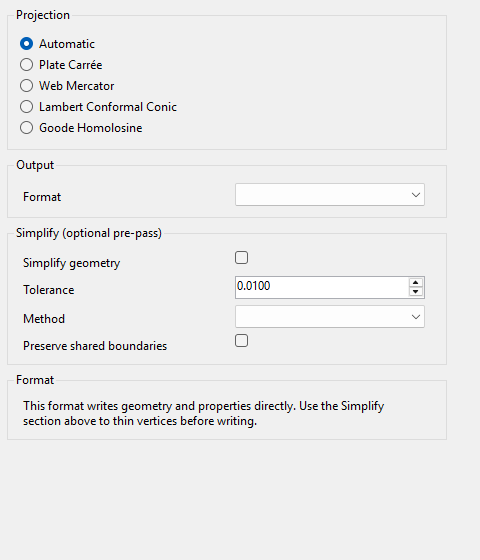
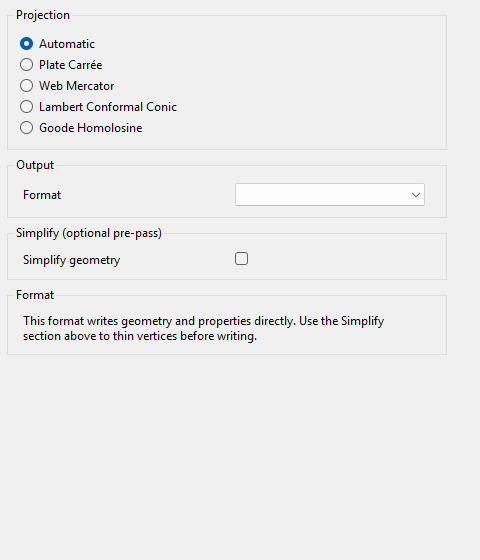
.

diff --git a/src/GeoConvert.App/Ui/OptionsPanel.cs b/src/GeoConvert.App/Ui/OptionsPanel.cs
@@ -141,7 +141,12 @@ sealed class OptionsPanel : FlowLayoutPanel
     void BuildSimplifySection()
     {
         BeginSection("Simplify (optional pre-pass)");
-        AddCheck("Simplify geometry", simplify.Enabled, _ => simplify.Enabled = _);
+        var enabled = AddCheck("Simplify geometry", simplify.Enabled, _ => simplify.Enabled = _);
+
+        // The tolerance / method / topology options only apply when simplification is on, so collapse
+        // them when "Simplify geometry" is unchecked. Capture the controls added below so the toggle can
+        // hide both the labels and the inputs (an AutoSize TableLayoutPanel row collapses when empty).
+        var dependentStart = currentTable.Controls.Count;
         AddDouble("Tolerance", 0, 1000, 4, simplify.Tolerance, _ => simplify.Tolerance = _);
         AddCombo(
             "Method",
@@ -149,6 +154,23 @@ sealed class OptionsPanel : FlowLayoutPanel
             simplify.Method,
             _ => simplify.Method = _);
         AddCheck("Preserve shared boundaries", simplify.Topology, _ => simplify.Topology = _);
+
+        var dependents = new List<Control>();
+        for (var index = dependentStart; index < currentTable.Controls.Count; index++)
+        {
+            dependents.Add(currentTable.Controls[index]);
+        }
+
+        void Sync()
+        {
+            foreach (var dependent in dependents)
+            {
+                dependent.Visible = enabled.Checked;
+            }
+        }
+
+        enabled.CheckedChanged += (_, _) => Sync();
+        Sync();
     }
 
     void BuildNoteSection()
@@ -212,15 +234,18 @@ sealed class OptionsPanel : FlowLayoutPanel
 
     void Row(string label, Control control)
     {
+        // Fill the label cell and centre its text vertically so it lines up with the input regardless of
+        // the input's height; centre the input in the row too (Anchor without Top/Bottom). The column is
+        // wide enough (215px) that no label wraps.
         var caption = new Label
         {
             Text = label,
-            AutoSize = true,
-            Anchor = AnchorStyles.Left,
-            Margin = new(3, 7, 3, 3),
-            MaximumSize = new(210, 0),
+            Dock = DockStyle.Fill,
+            TextAlign = ContentAlignment.MiddleLeft,
+            Margin = new(3, 0, 3, 0),
         };
         currentTable.Controls.Add(caption);
+        control.Anchor = AnchorStyles.Left;
         currentTable.Controls.Add(control);
     }
 
@@ -329,7 +354,7 @@ sealed class OptionsPanel : FlowLayoutPanel
         Row(label, numeric);
     }
 
-    void AddCheck(string label, bool current, Action<bool> set, bool affectsPreview = true)
+    CheckBox AddCheck(string label, bool current, Action<bool> set, bool affectsPreview = true)
     {
         var check = new CheckBox
         {
@@ -346,6 +371,7 @@ sealed class OptionsPanel : FlowLayoutPanel
             }
         };
         Row(label, check);
+        return check;
     }
 
     void AddText(string label, string current, Action<string?> set, bool affectsPreview = true)
